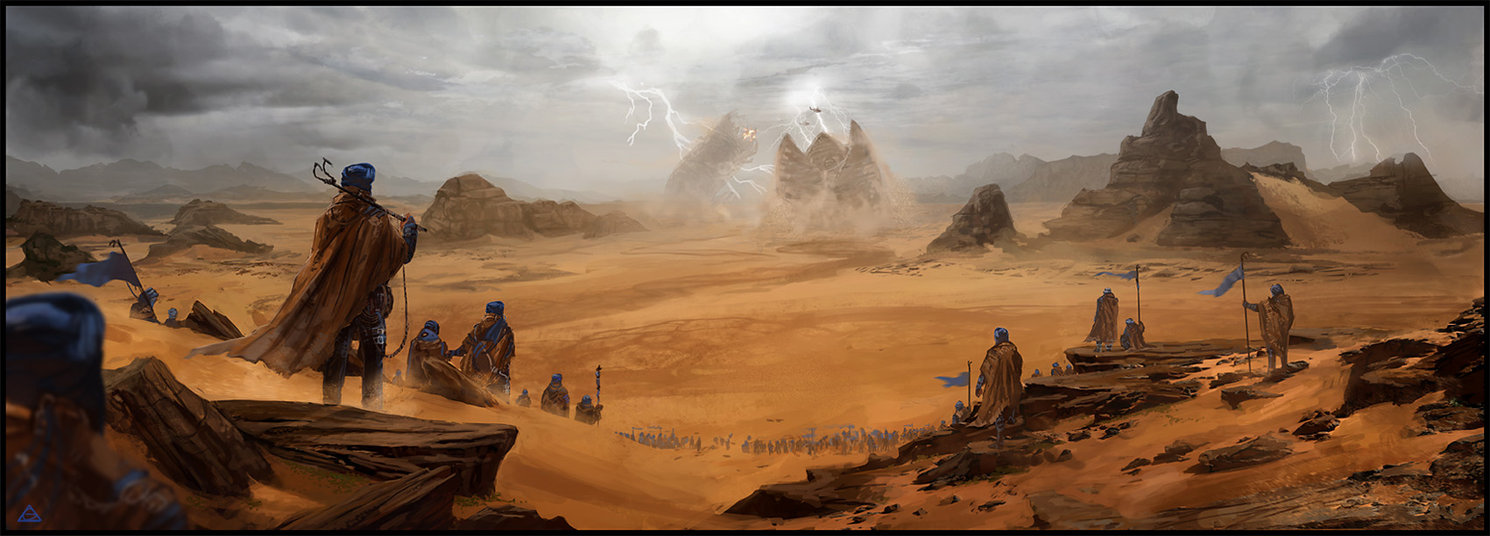
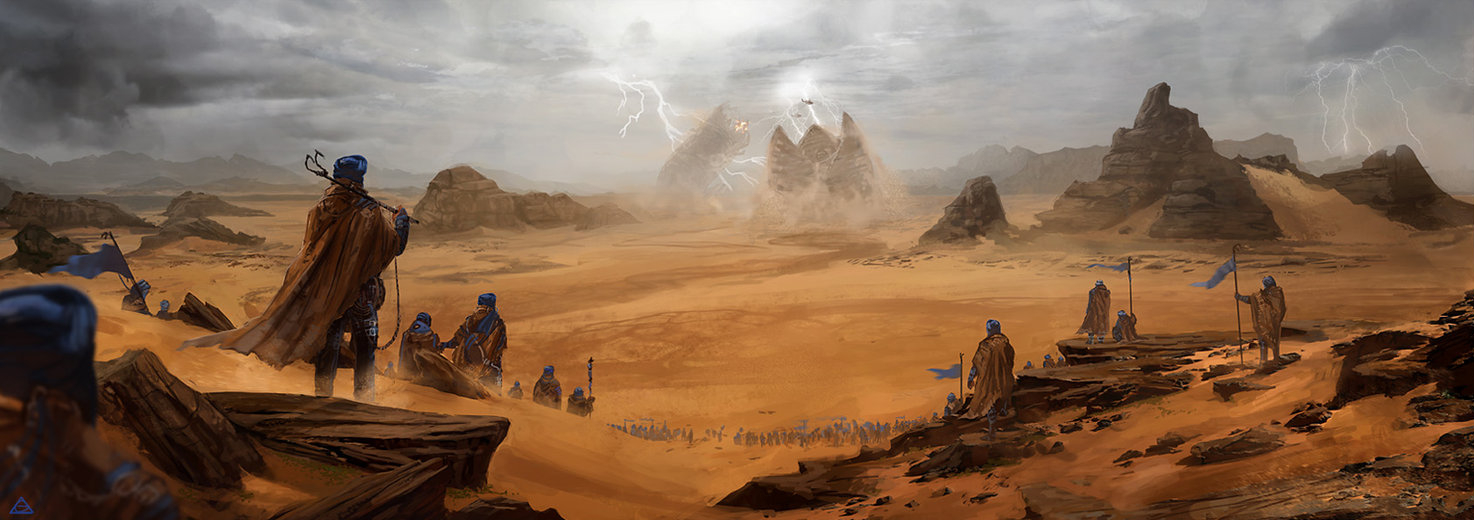
Adding new hero image and header text

diff --git a/src/App.css b/src/App.css
@@ -26,11 +26,13 @@ body {
   height: 95vh;
   background-image: linear-gradient(
       to right bottom,
-      rgba(126, 213, 111, 0.8),
-      rgba(40, 180, 131, 0.8)
+      rgba(194, 132, 0, 0.8),
+      rgba(255, 251, 0, 0.1)
     ),
     url(./img/hero.jpg);
   background-size: cover;
+  object-fit: none;
+  object-position: 10px 50%;
   background-position: top;
   clip-path: polygon(0 0, 100% 0, 100% 75vh, 0 100%);
   position: relative;
@@ -43,7 +45,7 @@ body {
 }
 
 .logo {
-  height: 35px;
+  height: 50px;
 }
 
 .text-box {

diff --git a/src/App.js b/src/App.js
@@ -14,7 +14,7 @@ function App() {
           <h1 className="heading-primary">
             <span className="heading-primary_main">Arrakis Adventures</span>
             <span className="heading-primary_sub">
-              where the water is scarce but the fun is unlimited
+              where the water is scarce <br/>but the fun is plenty
             </span>
           </h1>
           <a href="#tours" className="btn btn-white btn-animated">
